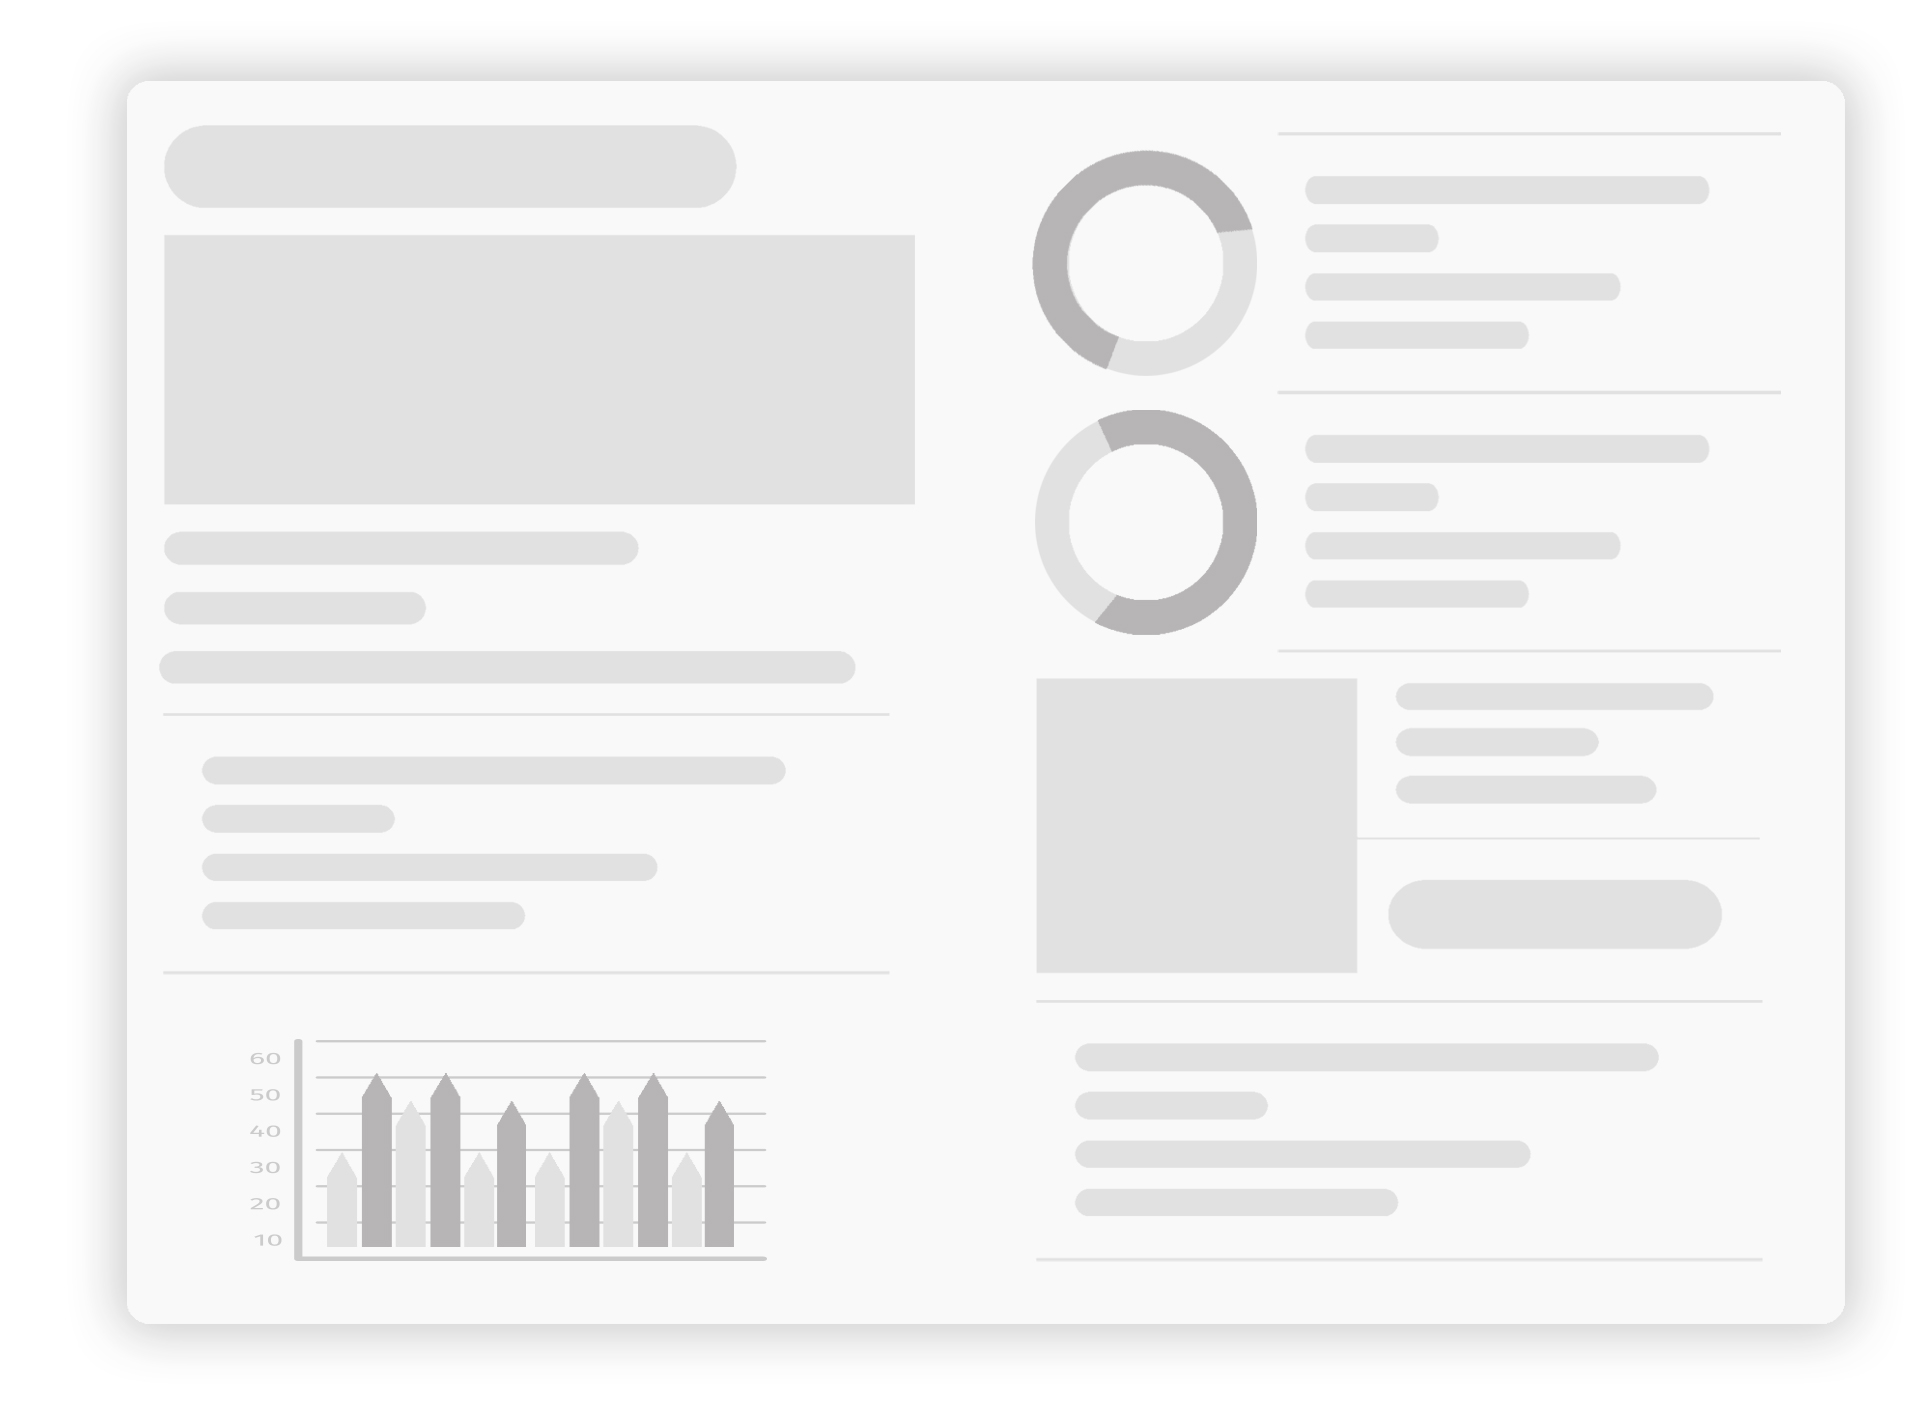
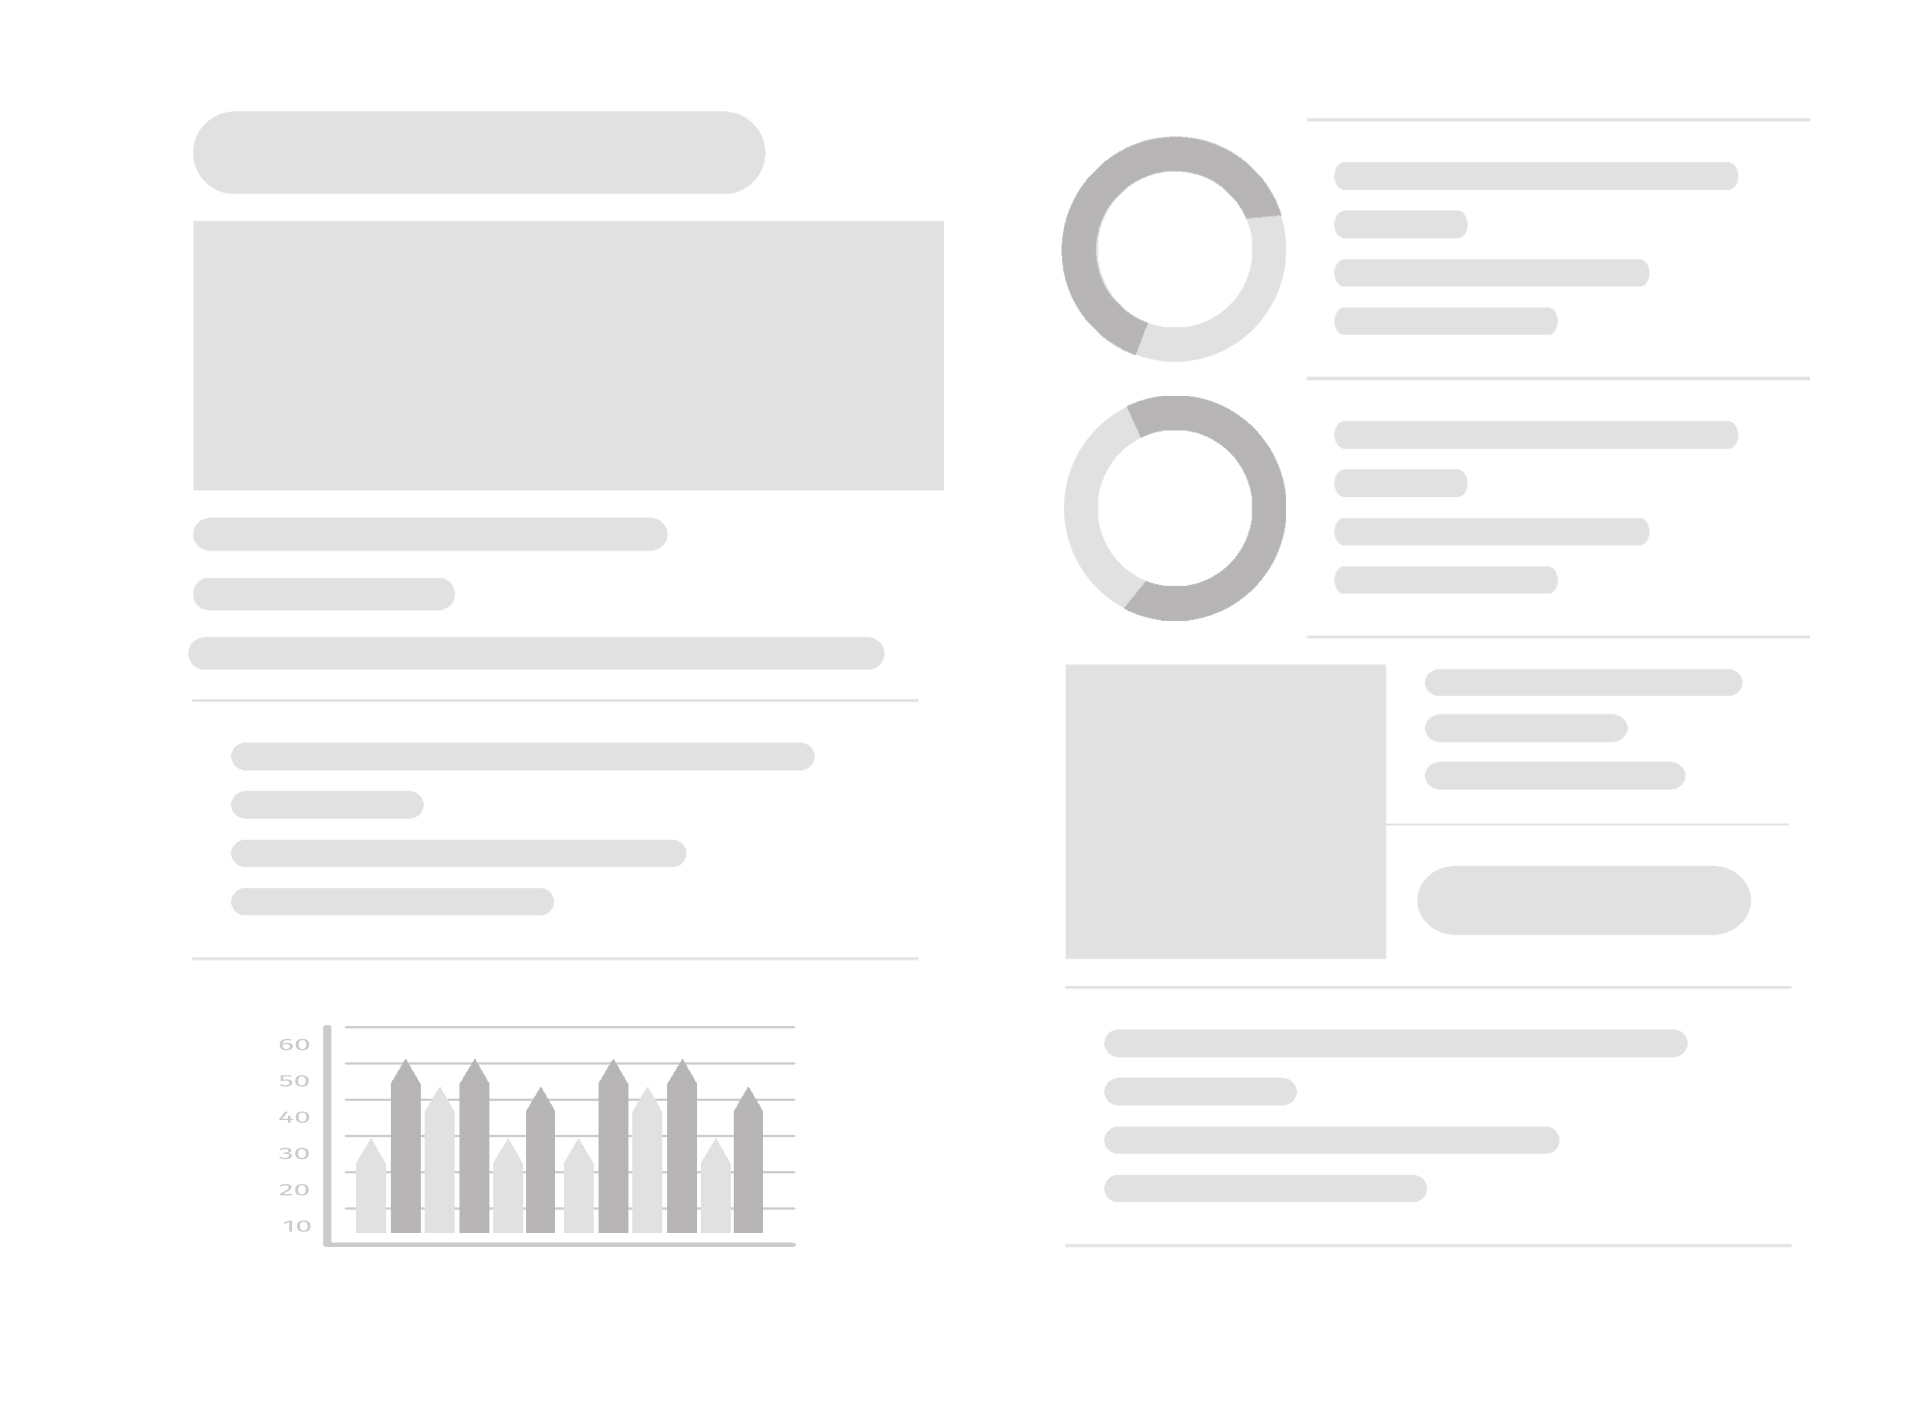
### 5.0.48 in PROD

diff --git a/src/assets/twp/chatbot-panel.html b/src/assets/twp/chatbot-panel.html
@@ -102,9 +102,9 @@
         .mockup{
             background-repeat: no-repeat;
             background-image: url(../images/website_mockup.jpg);      
-            background-size: calc(100% - 122px);
-            background-position-x: 50px;
-            background-position-y: 100px;
+            background-size: calc(100% - 40px);
+            /* background-position-x: 50px; */
+            /* background-position-y: 100px; */
         }
 
         .row {
@@ -159,7 +159,7 @@
             text-align: center;
 
             position: relative;
-            margin-top: -81px; /* negative value of footer height */
+            margin-top: -100px; /* negative value of footer height */
             height: 80px;
             clear:both;
         }
@@ -445,37 +445,6 @@
     </div>
 
     <div id="wrapper">
-        <header id="header">
-            <nav class="navbar navbar-inverse" role="navigation">
-                <div class="container">
-                    <div class="navbar-header">
-
-                        <button type="button" class="navbar-toggle" data-toggle="collapse" data-target="#bs-example-navbar-collapse-1">
-                            <span class="sr-only">Toggle navigation</span>
-                            <span class="icon-bar"></span>
-                            <span class="icon-bar"></span>
-                            <span class="icon-bar"></span>
-                        </button>
-                        <a class="navbar-brand" href="https://console.tiledesk.com/"></a>
-                    </div>
-
-                    <div class="collapse navbar-collapse" id="bs-example-navbar-collapse-1">
-                        <ul class="nav navbar-nav">
-                            <li><a href="https://developer.tiledesk.com/widget/web-sdk" target="_blank">WEB SDK &amp; Docs<span></span></a></li>
-                            <li><a href="https://www.tiledesk.com/pricing-cloud/" target="_blank">Pricing<span></span></a></li>
-                            <li><a href="https://www.tiledesk.com/blog/" target="_blank">Blog<span></span></a></li>
-                        </ul>
-
-                        <ul class="nav navbar-nav navbar-right">
-                            <li class="sign-up"><a onclick="goToConsole()" href="#">GO TO CONSOLE</a></li>
-                        </ul>
-
-                        <ul class="nav navbar-nav navbar-right" id="testPageButton"  style="display: none;">
-                            <li class="sign-up"><a onclick="goToTestPage()" href="#">GO TO TEST PAGE</a></li>
-                        </ul>
-                    </div>
-                </div>
-            </nav>
         </header>
 
         <div id="main" class="container">

diff --git a/CHANGELOG.md b/CHANGELOG.md
@@ -1,5 +1,7 @@
 # chat21-web-widget ver 5.0
 
+### 5.0.48 in PROD
+
 ### 5.0.48-rc.3
 - added: startConversation method to start a new conversation from javascript method
 - added: implementation of conversationChangedDetailed in MQTTConversationsHandler service
